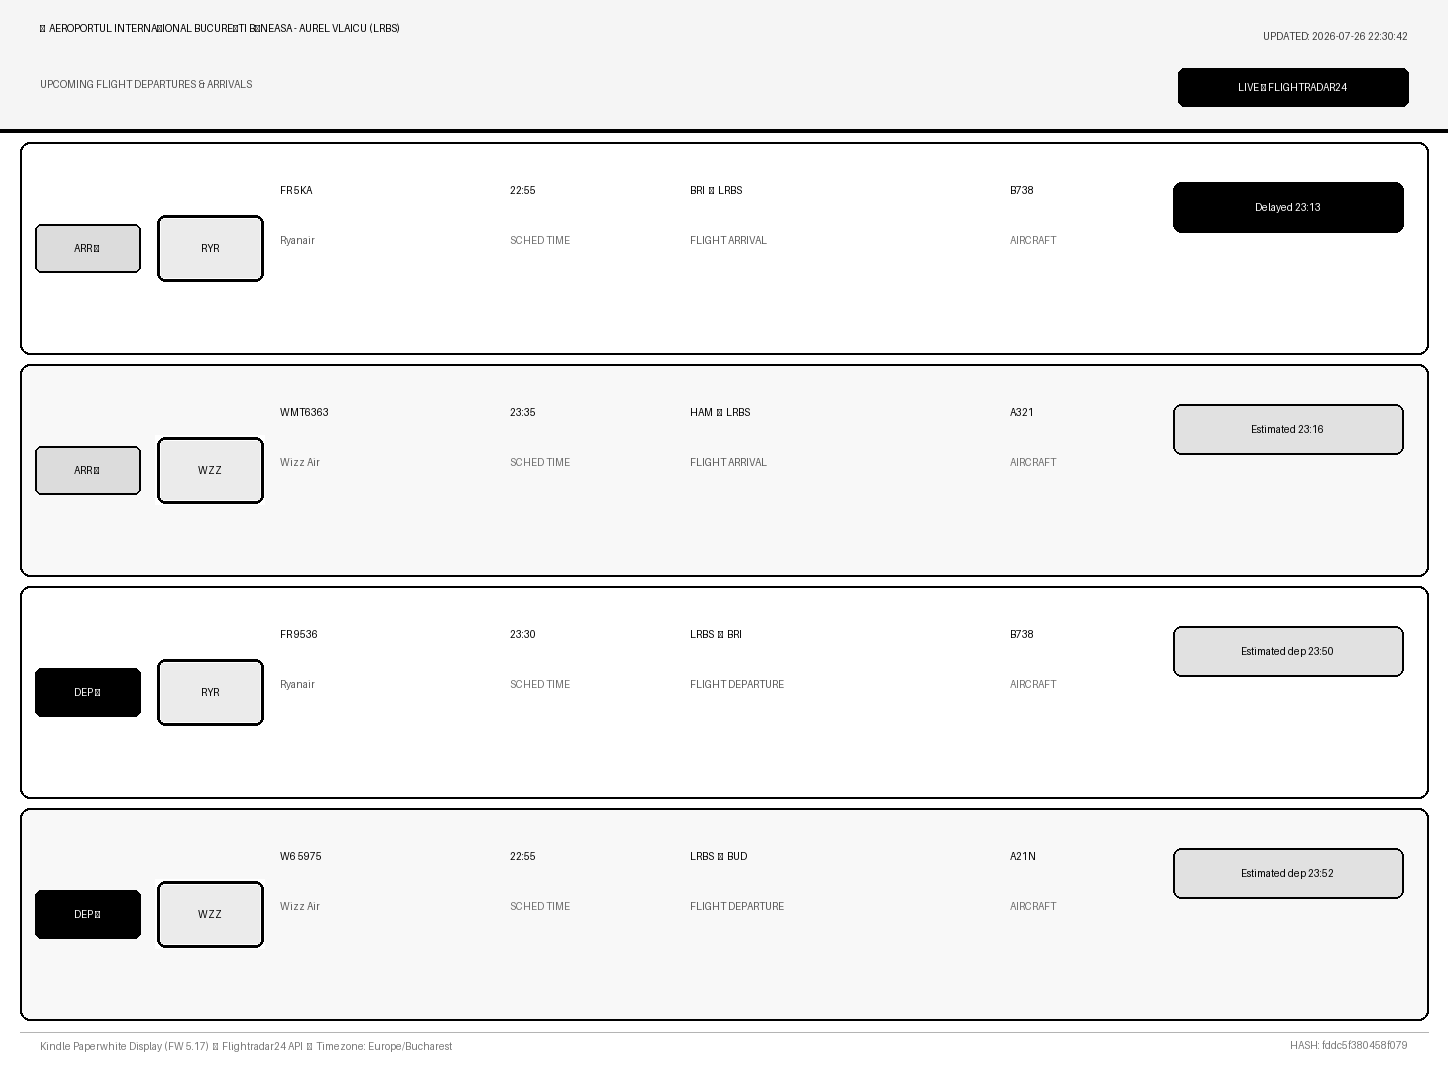
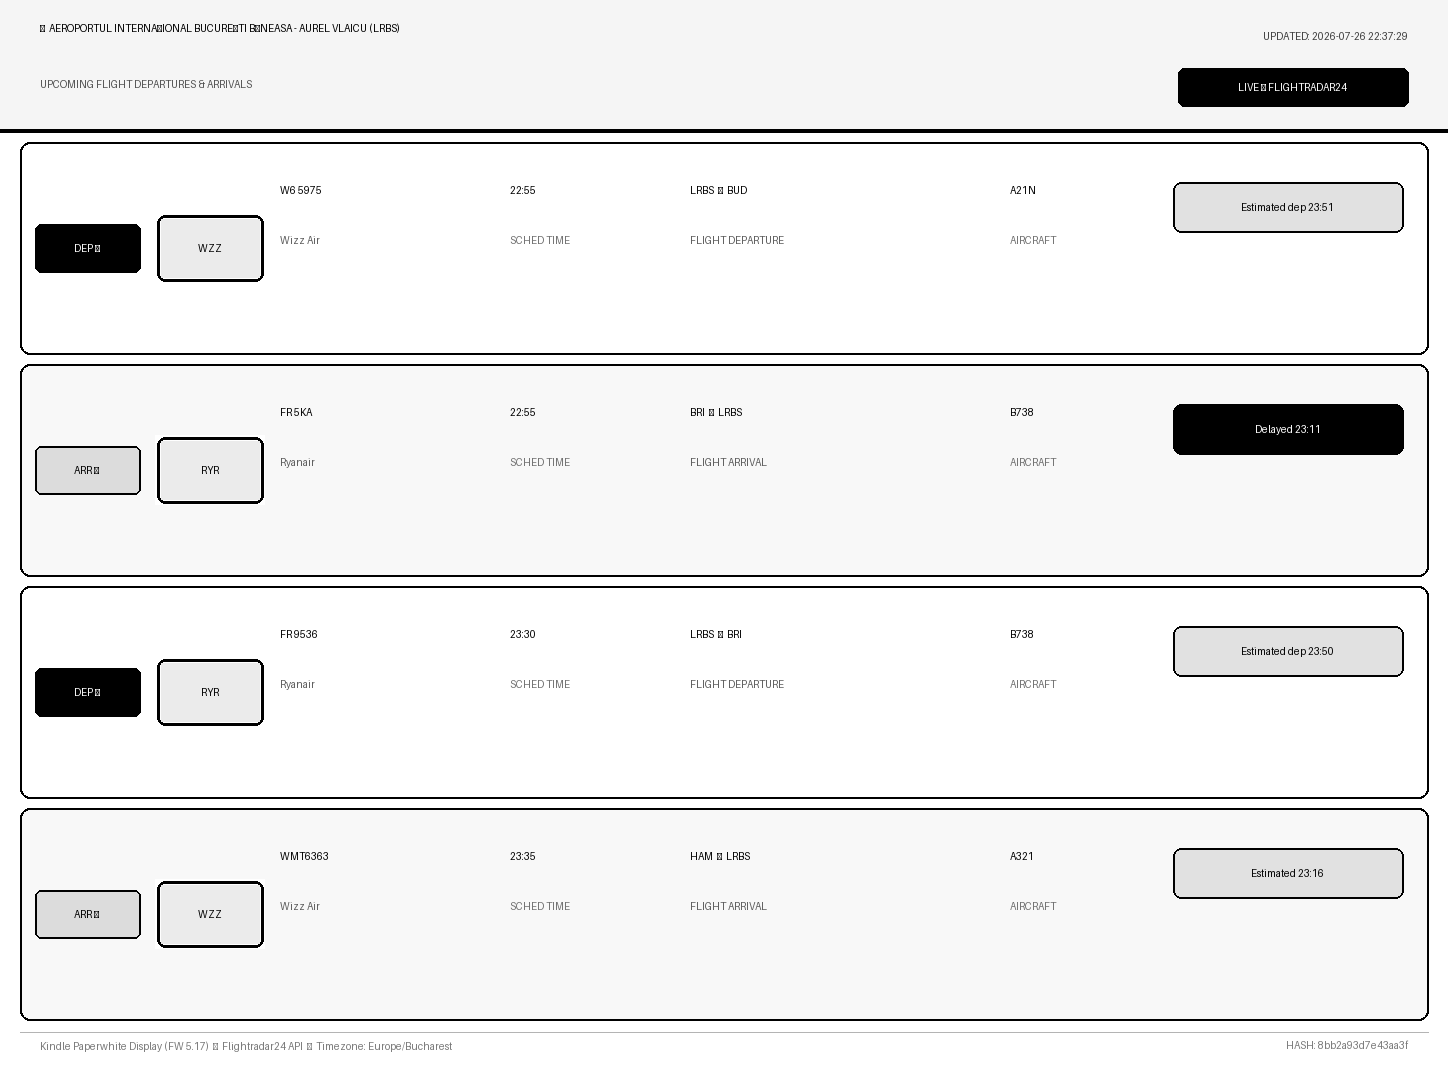
Rename opensky.py to flight_service.py, remove OPENSKY env vars, and sort flights by scheduled time

diff --git a/backend/app/flight_service.py b/backend/app/flight_service.py
@@ -10,7 +10,7 @@ from FlightRadarAPI import FlightRadar24API
 from app.config import settings
 from app.models import Flight, FlightBoardData
 
-logger = logging.getLogger("kindle-flight-board.flightradar")
+logger = logging.getLogger("kindle-flight-board.flightservice")
 
 # Mapping common ICAO airline prefixes to names & IATA prefixes
 AIRLINE_MAP: Dict[str, Tuple[str, str]] = {
@@ -42,8 +42,8 @@ AIRLINE_MAP: Dict[str, Tuple[str, str]] = {
 AIRCRAFT_TYPES = ["A320", "B738", "A321", "B789", "A359", "B77W", "A333", "B763", "E190", "A20N"]
 
 
-class OpenSkyClient:
-    """Client for fetching live airport schedules via FlightRadar24."""
+class FlightService:
+    """Service for fetching live airport schedules via FlightRadar24."""
     def __init__(self):
         self.fr_api = FlightRadar24API()
         self._cache_data: Optional[FlightBoardData] = None
@@ -116,6 +116,7 @@ class OpenSkyClient:
                     destination=dest,
                     aircraft_type=ac_type,
                     timestamp=ts,
+                    scheduled_ts=ts,
                     scheduled_time=time_str,
                     estimated_time=time_str,
                     formatted_time=time_str,
@@ -128,7 +129,7 @@ class OpenSkyClient:
     def get_flight_board(self, force_refresh: bool = False) -> FlightBoardData:
         """
         Fetch departures and arrivals from FlightRadar24, filter to ONLY 4 upcoming flights
-        from the API call timestamp forward, and format.
+        from the API call timestamp forward, and sort strictly by scheduled time.
         """
         now = int(time.time())
         target_tz = tz.gettz(settings.TIMEZONE) or tz.tzutc()
@@ -175,10 +176,11 @@ class OpenSkyClient:
                     continue
                 
                 effective_ts = est_ts or sched_ts
+                sort_ts = sched_ts or effective_ts
                 status_raw = flt.get("status", {}).get("text") or "SCHEDULED"
                 
                 # Exclude past flights or already departed/canceled flights
-                if effective_ts < (now - 300) or ("Departed" in status_raw) or ("Canceled" in status_raw):
+                if sort_ts < (now - 300) or ("Departed" in status_raw) or ("Canceled" in status_raw):
                     continue
                 
                 ident = flt.get("identification", {})
@@ -201,7 +203,7 @@ class OpenSkyClient:
                 est_str = self._format_local_time(est_ts) if est_ts else None
                 
                 upcoming_candidates.append((
-                    effective_ts,
+                    sort_ts,
                     Flight(
                         icao24=ident.get("row") and str(ident.get("row")),
                         callsign=callsign,
@@ -213,9 +215,10 @@ class OpenSkyClient:
                         destination=dest_code,
                         aircraft_type=ac_type,
                         timestamp=effective_ts,
+                        scheduled_ts=sort_ts,
                         scheduled_time=sched_str,
                         estimated_time=est_str,
-                        formatted_time=est_str or sched_str,
+                        formatted_time=sched_str,
                         status=status_raw,
                         is_past=False
                     )
@@ -234,10 +237,11 @@ class OpenSkyClient:
                     continue
                 
                 effective_ts = est_ts or sched_ts
+                sort_ts = sched_ts or effective_ts
                 status_raw = flt.get("status", {}).get("text") or "SCHEDULED"
                 
                 # Exclude past flights or already landed/canceled flights
-                if effective_ts < (now - 300) or ("Landed" in status_raw) or ("Canceled" in status_raw):
+                if sort_ts < (now - 300) or ("Landed" in status_raw) or ("Canceled" in status_raw):
                     continue
                 
                 ident = flt.get("identification", {})
@@ -260,7 +264,7 @@ class OpenSkyClient:
                 est_str = self._format_local_time(est_ts) if est_ts else None
                 
                 upcoming_candidates.append((
-                    effective_ts,
+                    sort_ts,
                     Flight(
                         icao24=ident.get("row") and str(ident.get("row")),
                         callsign=callsign,
@@ -272,15 +276,16 @@ class OpenSkyClient:
                         destination=dest_code,
                         aircraft_type=ac_type,
                         timestamp=effective_ts,
+                        scheduled_ts=sort_ts,
                         scheduled_time=sched_str,
                         estimated_time=est_str,
-                        formatted_time=est_str or sched_str,
+                        formatted_time=sched_str,
                         status=status_raw,
                         is_past=False
                     )
                 ))
 
-            # Sort chronologically by effective timestamp and pick ONLY the next 4 flights
+            # Sort strictly by scheduled_ts ascending and pick ONLY the next 4 flights
             upcoming_candidates.sort(key=lambda x: x[0])
             flights_list = [f[1] for f in upcoming_candidates[:4]]
                 
@@ -302,7 +307,7 @@ class OpenSkyClient:
 
         # Build data hash
         last_updated_str = datetime.now(target_tz).strftime("%Y-%m-%d %H:%M:%S")
-        raw_hash_str = f"{settings.AIRPORT_ICAO}-" + "-".join([f"{f.flight_type}:{f.callsign}:{f.timestamp}:{f.status}" for f in flights_list])
+        raw_hash_str = f"{settings.AIRPORT_ICAO}-" + "-".join([f"{f.flight_type}:{f.callsign}:{f.scheduled_ts}:{f.status}" for f in flights_list])
         data_hash = hashlib.sha256(raw_hash_str.encode()).hexdigest()[:16]
 
         board_data = FlightBoardData(
@@ -324,9 +329,7 @@ class OpenSkyClient:
         
         app_settings = {}
         for key, value in settings.model_dump().items():
-            if key == "OPENSKY_PASSWORD" and value:
-                app_settings[key] = "********"
-            elif isinstance(value, Path):
+            if isinstance(value, Path):
                 app_settings[key] = str(value)
             else:
                 app_settings[key] = value
@@ -340,4 +343,4 @@ class OpenSkyClient:
         }
 
 
-opensky_client = OpenSkyClient()
+flight_service = FlightService()

diff --git a/backend/app/config.py b/backend/app/config.py
@@ -1,18 +1,27 @@
-from pydantic_settings import BaseSettings
+from pydantic_settings import BaseSettings, SettingsConfigDict
 from pydantic import Field
 import os
 from pathlib import Path
 
+ROOT_DIR = Path(__file__).resolve().parent.parent.parent
+BASE_DIR = Path(__file__).resolve().parent.parent
+
 
 class Settings(BaseSettings):
+    model_config = SettingsConfigDict(
+        env_file=[
+            str(ROOT_DIR / ".env"),
+            str(BASE_DIR / ".env"),
+            ".env"
+        ],
+        env_file_encoding="utf-8",
+        extra="ignore"
+    )
+
     # Airport Settings
     AIRPORT_ICAO: str = Field(default="KJFK", description="ICAO code for target airport (e.g. KLAX, EGLL, KJFK)")
     AIRPORT_NAME: str = Field(default="John F. Kennedy Intl", description="Display name for airport header")
     TIMEZONE: str = Field(default="America/New_York", description="Timezone name for display timestamps")
-    
-    # OpenSky Network API Credentials (Optional, increases API rate limits)
-    OPENSKY_USERNAME: str = Field(default="", description="OpenSky Network username")
-    OPENSKY_PASSWORD: str = Field(default="", description="OpenSky Network password")
     
     # Display Settings (Kindle Paperwhite FW 5.17)
     BOARD_WIDTH: int = Field(default=1448, description="Target image width in pixels")
@@ -21,18 +30,12 @@ class Settings(BaseSettings):
     INVERT_COLORS: bool = Field(default=False, description="Invert black/white for dark mode e-ink display")
     
     # Polling & Cache Settings
-    CACHE_TTL_SECONDS: int = Field(default=300, description="Cache OpenSky responses for 5 minutes")
-    USE_MOCK_DATA_ON_FAILURE: bool = Field(default=True, description="Fallback to mockup flight data if OpenSky fails/rate-limited")
+    CACHE_TTL_SECONDS: int = Field(default=300, description="Cache FlightRadar24 responses for 5 minutes")
+    USE_MOCK_DATA_ON_FAILURE: bool = Field(default=True, description="Fallback to mockup flight data if FlightRadar24 fails")
     
     # File Paths
-    BASE_DIR: Path = Path(__file__).resolve().parent.parent
-    ASSETS_DIR: Path = Field(default_factory=lambda: Path(__file__).resolve().parent.parent / "assets")
-    LOGOS_DIR: Path = Field(default_factory=lambda: Path(__file__).resolve().parent.parent / "assets" / "logos")
-    
-    class Config:
-        env_file = ".env"
-        env_file_encoding = "utf-8"
-        extra = "ignore"
+    ASSETS_DIR: Path = Field(default_factory=lambda: ROOT_DIR / "assets")
+    LOGOS_DIR: Path = Field(default_factory=lambda: ROOT_DIR / "assets" / "logos")
 
 
 settings = Settings()

diff --git a/backend/app/main.py b/backend/app/main.py
@@ -4,7 +4,7 @@ from fastapi.responses import JSONResponse, Response
 from typing import Optional
 
 from app.config import settings
-from app.opensky import opensky_client
+from app.flight_service import flight_service
 from app.renderer import renderer
 from app.models import ChangedStatus, FlightBoardData
 
@@ -36,10 +36,10 @@ def health_check():
 @app.get("/status")
 def get_status():
     """
-    Returns system status including the last call to OpenSky API,
+    Returns system status including the last call to FlightRadar24 API,
     the response received, and all active app settings.
     """
-    return opensky_client.get_status()
+    return flight_service.get_status()
 
 
 @app.get("/changed", response_model=ChangedStatus)
@@ -51,7 +51,7 @@ def check_changed(
     Lightweight endpoint for Kindle daemon to check if board data has changed.
     Avoids unnecessary image downloads to conserve Kindle battery & e-ink cycles.
     """
-    board_data = opensky_client.get_flight_board()
+    board_data = flight_service.get_flight_board()
     target_hash = client_hash or (if_none_match.strip('"') if if_none_match else None)
     
     has_changed = (target_hash != board_data.data_hash)
@@ -65,12 +65,12 @@ def check_changed(
 
 @app.get("/board.png")
 def get_board_image(
-    force_refresh: bool = Query(False, description="Bypass cache and force re-fetch from OpenSky")
+    force_refresh: bool = Query(False, description="Bypass cache and force re-fetch from FlightRadar24")
 ):
     """
     Render and serve high-contrast 1448x1072 landscape PNG image for Kindle display.
     """
-    board_data = opensky_client.get_flight_board(force_refresh=force_refresh)
+    board_data = flight_service.get_flight_board(force_refresh=force_refresh)
     image_bytes = renderer.render(board_data)
     
     headers = {
@@ -86,4 +86,4 @@ def get_board_image(
 @app.get("/api/flights", response_model=FlightBoardData)
 def get_flights_json():
     """Returns raw structured flight data in JSON format."""
-    return opensky_client.get_flight_board()
+    return flight_service.get_flight_board()

diff --git a/backend/app/models.py b/backend/app/models.py
@@ -13,6 +13,7 @@ class Flight(BaseModel):
     destination: str = Field(..., description="Destination airport code or city")
     aircraft_type: str = Field(default="A320", description="Aircraft model code (e.g. B738, A321, A21N)")
     timestamp: int = Field(..., description="Effective departure/arrival epoch timestamp")
+    scheduled_ts: int = Field(..., description="Scheduled departure/arrival epoch timestamp for sorting")
     scheduled_time: str = Field(..., description="Scheduled local time HH:MM")
     estimated_time: Optional[str] = Field(default=None, description="Estimated/real local time HH:MM if available")
     formatted_time: str = Field(..., description="Formatted local display time HH:MM")
